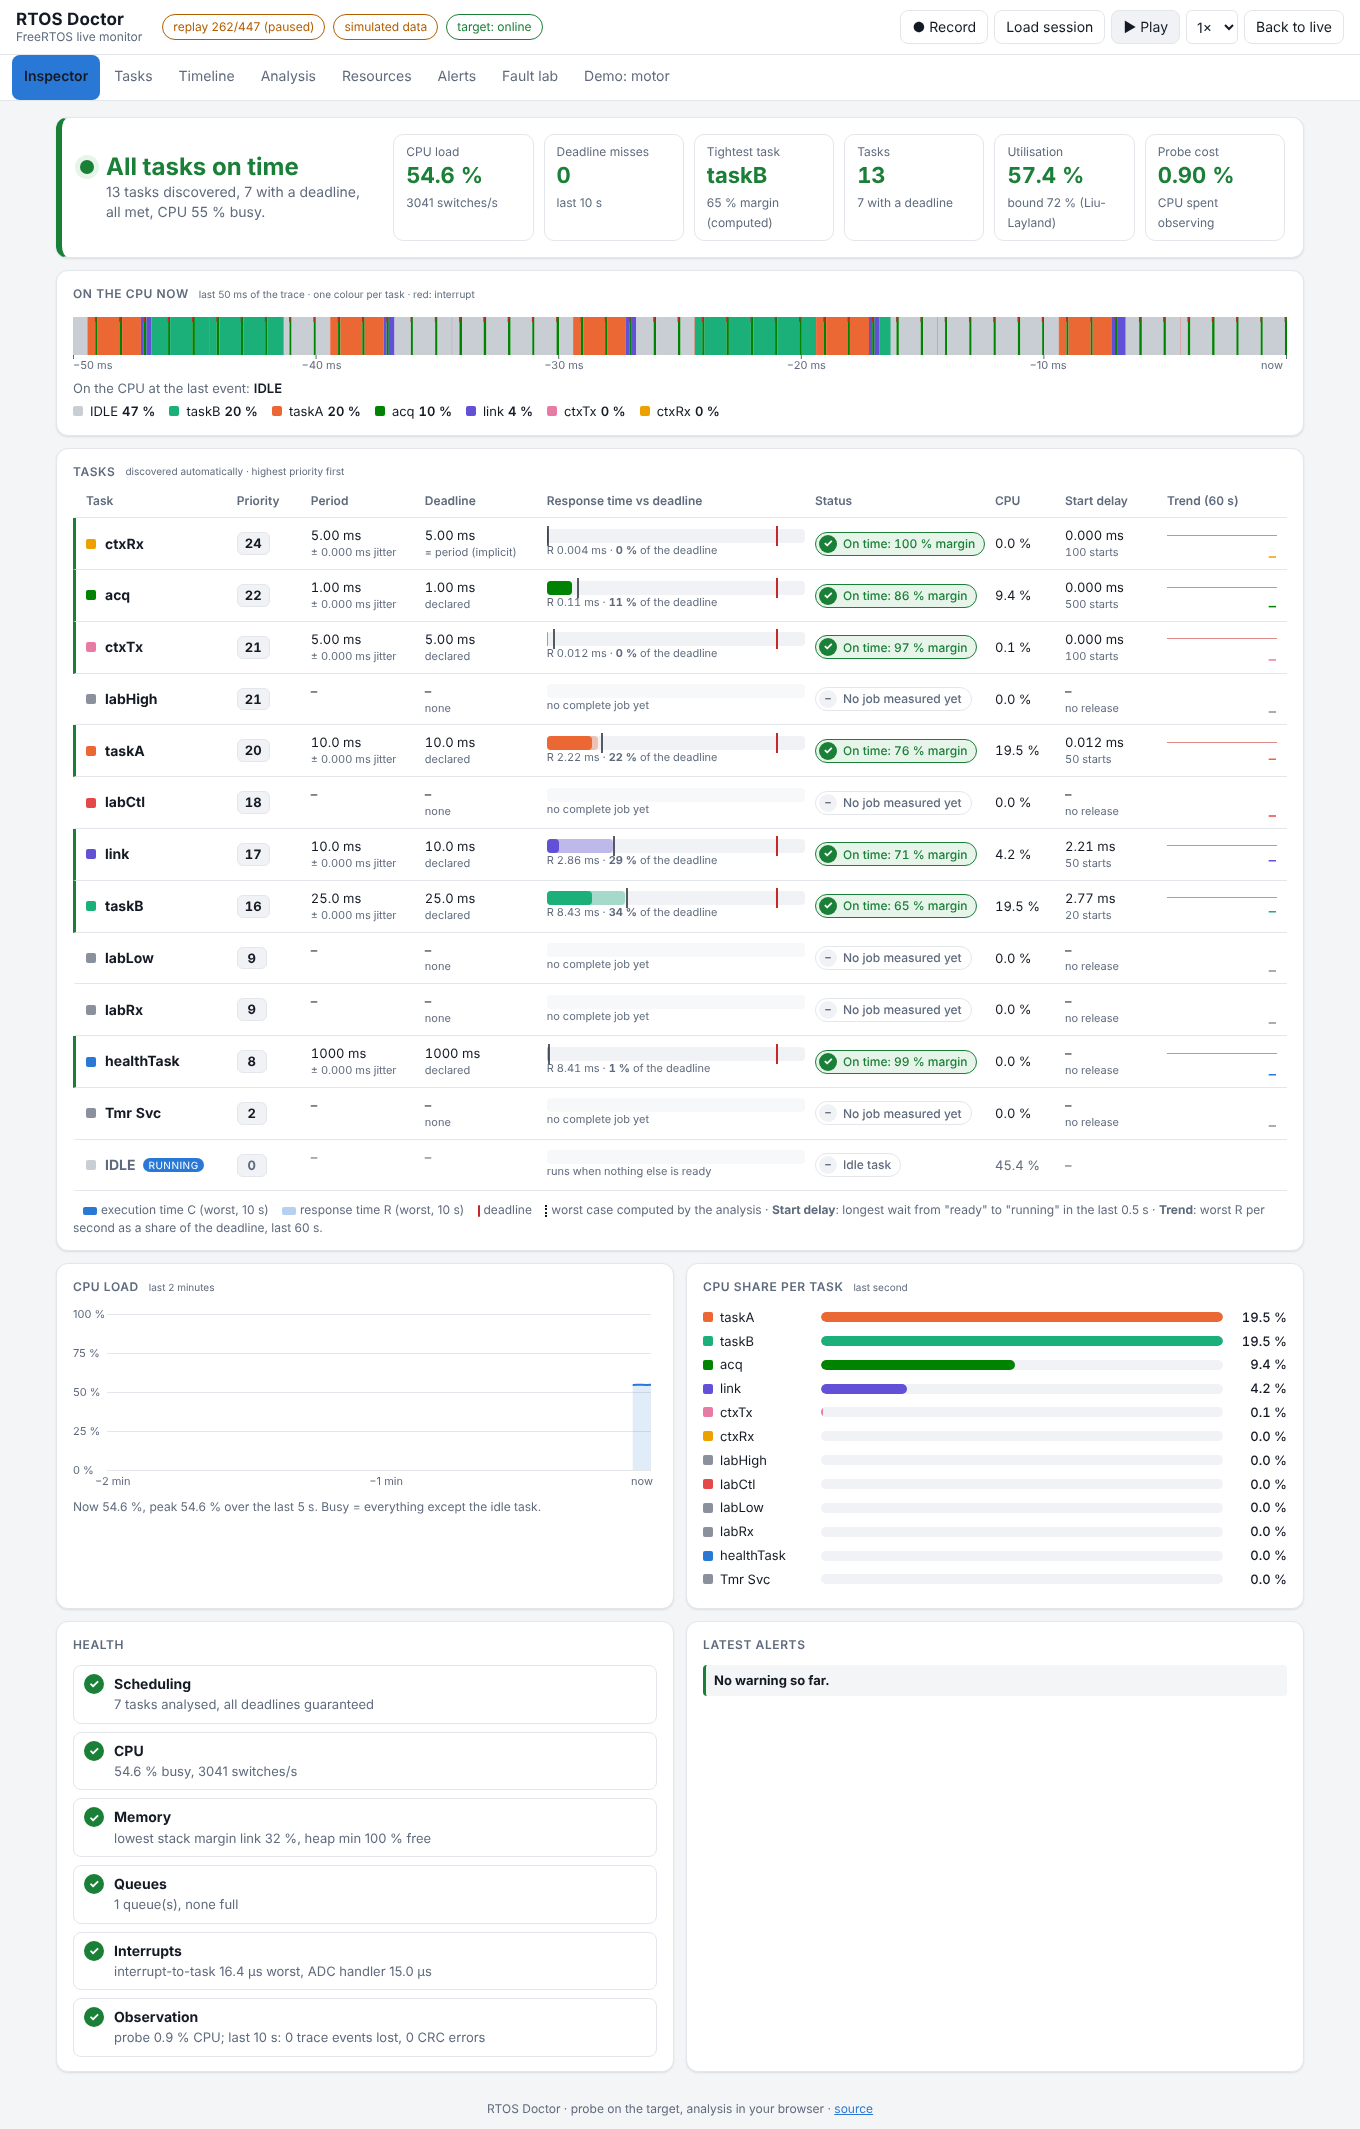
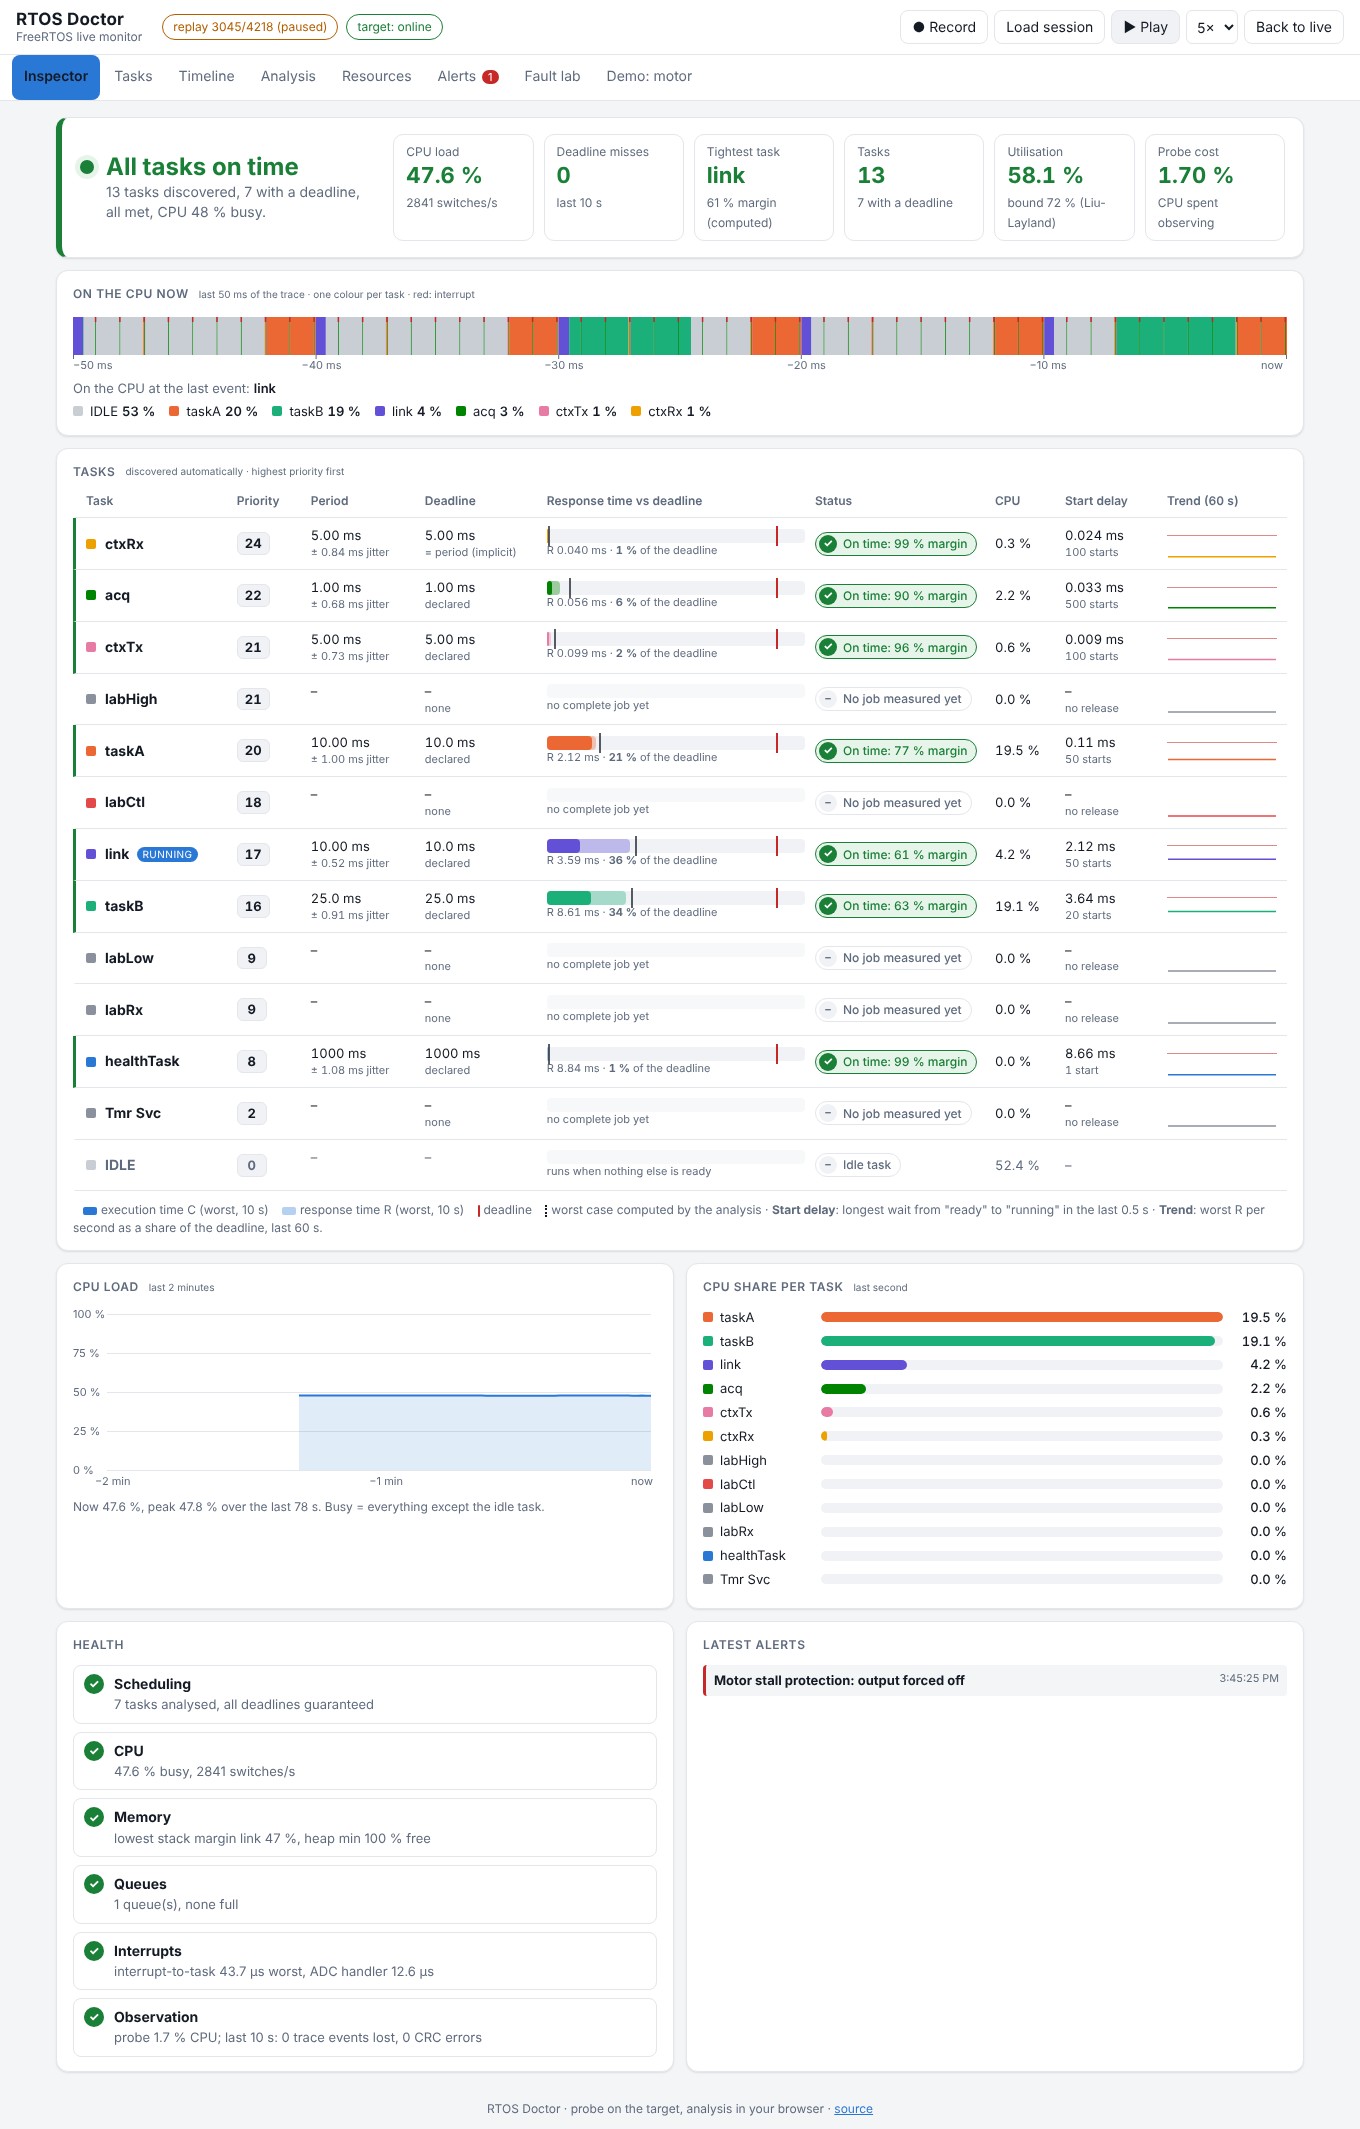
README: screenshots and results from the first bench session with the Inspector (probe cost 1.7 %, detection delays)

diff --git a/README.md b/README.md
@@ -8,8 +8,9 @@ It is built and proven on a hardware-in-the-loop motor-control bench (STM32 + tw
 
 ![The Inspector view: verdict, what runs on the CPU, and every task with its priority, period, deadline and response time](docs/images/inspector.png)
 
-<sub>Screenshot from the replay of a <b>simulated</b> session of the bench task set (the dashboard shows the
-"simulated data" badge): see <a href="#tests">Tests</a>. Real measurements are in <a href="#results-measured-on-the-bench">Results</a>.</sub>
+<sub>Real session recorded on the bench (2026-10-11): 13 tasks discovered, 7 with a deadline, all on time, CPU 47.6 % busy.
+The "Motor stall protection" alert is real too: the motor model was not answering during this run, and the stall protection
+cut the motor as designed.</sub>
 
 ## Contents
 
@@ -58,8 +59,10 @@ Each row of the task board:
 | **Start delay** | longest wait from "ready" to "running" in the last 0.5 s: how long the task waited for higher-priority work |
 | **Trend** | worst response time of each second over the last minute, as a share of the deadline (the red line is 100 %) |
 
-When something goes wrong, the board says which task and by how much. Below, the fault lab has injected a
-CPU hog (one task runs 150 ms without blocking): the two tasks below it are late, and the banner names them.
+When something goes wrong, the board says which task and by how much. Below, on the bench, the fault lab has
+injected a CPU hog (a priority-18 task busy-waits 150 ms without blocking): link and taskB, below it, are late,
+and the banner names them. The analysis now uses the merged 184 ms job of taskB, so utilisation reads 147 % until
+that job leaves the 10 s window: the numbers say exactly what happened, they are not smoothed.
 
 ![Inspector after an injected CPU hog: link and taskB are late](docs/images/inspector-fault.png)
 
@@ -184,7 +187,10 @@ flowchart LR
 
 Priorities follow the periods (rate-monotonic): the shorter the period, the higher the priority.
 The **fault lab** (`faultlab.c`) injects, on request and for a bounded time, a CPU hog, stack pressure, a queue
-flood, a priority inversion or heap pressure, always in isolated tasks below the control loop.
+flood, a priority inversion or heap pressure, always in isolated tasks below the control loop. Each card reports
+the matching detection and its delay, measured on the target clock (here, a run on the bench):
+
+![Fault lab: CPU hog, stack pressure and queue flood detected on the bench](docs/images/faults.png)
 
 Pins and board notes: [docs/HARDWARE.md](docs/HARDWARE.md).
 
@@ -199,6 +205,9 @@ Pins and board notes: [docs/HARDWARE.md](docs/HARDWARE.md).
 | Same tasks after raising their priorities from the analysis (ctxTx 12 → 21, link 10 → 17) | R below D | 0 misses in 40 s, every measured R below the computed R |
 | Link over UART at 2 Mbaud | – | 0 CRC errors, 0 lost frames |
 | Fault lab, 5 injected faults | one detection each | 5 of 5 detected, 0.1 to 1.0 s after injection |
+| Fault lab, run of 2026-10-11 (target clock) | – | CPU hog 0.15 s · stack pressure 0.72 s · queue flood 0.42 s |
+| Cost of observing (probe hooks / kernel switching) | – | **1.7 %** / 1.3 % of the CPU, at 2 841 switches/s and 7 562 trace events/s |
+| CPU load, 13 tasks, declared deadlines | utilisation 58.1 % (analysis, worst C of each task) | 47.6 % busy on average, 0 deadline misses until the injected fault |
 
 Two logic-analyser captures from the bench: task A and task B on their timing pins (B is preempted by A: 7.01 ms
 instead of 5 ms), and the motor PWM at 68 % duty, 20 kHz.
@@ -253,8 +262,9 @@ jobs, and C is the worst value observed, not a proven worst case.
 All of them run on every push (`.github/workflows/ci.yml`). The UI test replays a **synthetic** session made by
 `supervisor/web/tests/make_fixture.py`: a small scheduler simulation of the bench task set (real priorities and
 periods, assumed execution times) with a CPU hog injected at 6 s. It opens every view in light and dark mode and at
-phone width, and fails on any JavaScript error. The screenshots of this README come from the same session
-(`supervisor/web/tests/screenshots.mjs`).
+phone width, and fails on any JavaScript error. The screenshots of this README come from a session recorded on
+the bench, replayed by `supervisor/web/tests/screenshots.mjs` (`SESSION=<file> HEALTHY=<s> FAULT=<s>`): record a new
+session with the **Record** button and run it again to refresh them.
 
 ## Repository layout
 
@@ -268,6 +278,6 @@ docs/              architecture, hardware, measurement log, lessons learned, ima
 captures/          logic-analyser captures from the bench
 ```
 
-**Next:** record a reference session on the bench and publish it as a replayable demo; measure the probe's own
-cost and the end-to-end latency from a fault to the dashboard; hardware emergency stop (TIM1 break input), watchdog
+**Next:** publish a reference session as a replayable demo; make the gateway flush its trace buffer when full
+(events are lost when its loop stalls more than 0.3 s); measure the end-to-end latency from a fault to the dashboard; hardware emergency stop (TIM1 break input), watchdog
 and a long-run test.
